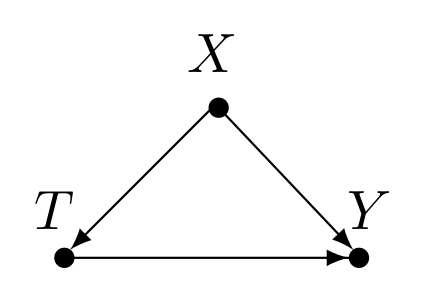
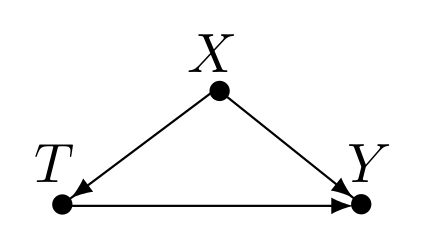
section:background,dag; process:write,figures

diff --git a/images/tex/sdag_example1.tex b/images/tex/sdag_example1.tex
@@ -10,19 +10,19 @@
 \begin{tikzpicture}
 
     % dag_bb3
-    \node at (-2,0) {$e_{T}$};
+    %\node at (-2,0) {$e_{T}$};
     \node at (-1,0) {$T$};
-    \node at (-1,0.7) {$e_{X}$};
+    %\node at (-1,0.7) {$e_{X}$};
     \node at (0,0.7) {$X$};
     \node at (1,0) {$Y$};
-    \node at (2,0) {$e_{Y}$};
+    %\node at (2,0) {$e_{Y}$};
 
-    \draw[{Circle[open]}-{latex}](-2,-0.27) to (-1,-0.27); % eT -> T (circle)
+    %\draw[{Circle[open]}-{latex}](-2,-0.27) to (-1,-0.27); % eT -> T (circle)
     \draw[-{latex}{Circle}](0,0.45) to (-1,-0.3); % X -> T
-    \draw[{Circle[open]}-{latex}](-1,0.47) to (0,0.47); % eX -> X (circle)
+    %\draw[{Circle[open]}-{latex}](-1,0.47) to (0,0.47); % eX -> X (circle)
     \draw[-{latex}](-0.9,-0.27) to (0.9,-0.27); % T -> Y
     \draw[{Circle}-{latex}{Circle}](0,0.5) to (1,-0.3); % X -> Y
-    \draw[{Circle[open]}-{latex}](2,-0.27) to (1,-0.27); % eY -> Y (circle)
+    %\draw[{Circle[open]}-{latex}](2,-0.27) to (1,-0.27); % eY -> Y (circle)
     
 \end{tikzpicture}
 
